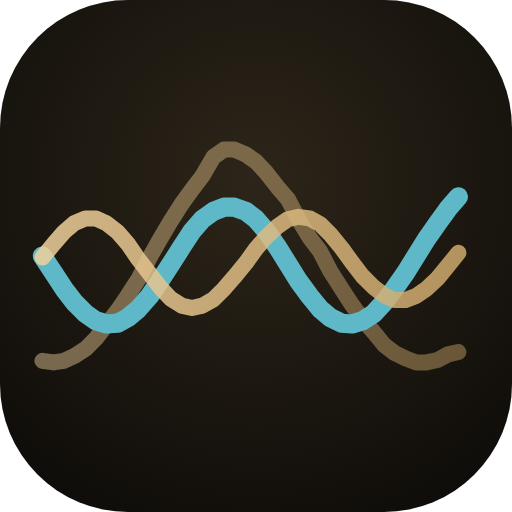
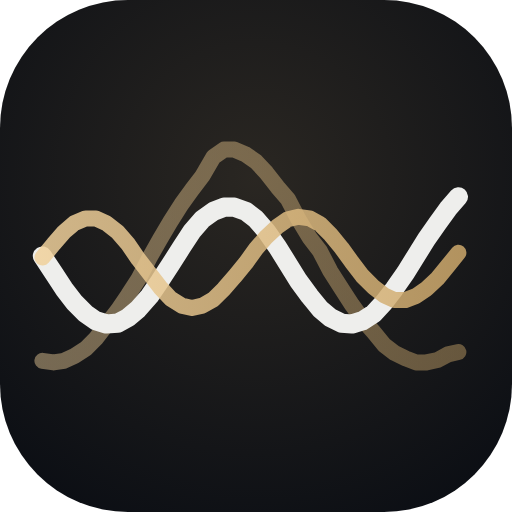
Farbpalette: Navy-Schwarz statt Braunschwarz, zweiter Akzent auf Weiss
Hintergrund von warmem Braunschwarz auf kuehleres Navy-Schwarz (angelehnt
an Referenzscreenshot) umgestellt. Zweiter Farbakzent (bisher Blau/Teal)
komplett durch Weiss ersetzt - betrifft Hintergrundlinien, EQ-Frequenzband-
Spektrogramm, Glanzeffekte, Logo-Akzentlinie, App-Icons/OG-Bild. Gold
bleibt unveraendert fuer Branding/Buttons/Logo. Konfetti-Gruenton entfernt,
jetzt nur noch Gold-Toene - keine Braun-/Gruentoene mehr im Interface.

Changed region(s): [[0.3125, 0.3438, 0.9375, 0.6562], [0.0625, 0.4688, 0.3125, 0.6562]]

diff --git a/website/app.js b/website/app.js
@@ -1500,7 +1500,7 @@ function renderAchievements(container, achievements) {
 
 function fireConfetti(container) {
   if (!container) return;
-  const colors = ["#cda86b", "#e8caa0", "#4cc38a", "#f3efe6"];
+  const colors = ["#cda86b", "#f0d19c", "#8a6a35", "#f3efe6"];
   for (let i = 0; i < 26; i++) {
     const piece = document.createElement("div");
     piece.className = "confetti-piece";
@@ -2827,7 +2827,7 @@ let eqSeeking = false;
 let eqPendingSeekOffset = 0;
 const EQ_BAND_MIN_HZ = 20;
 const EQ_BAND_MAX_HZ = 16000;
-const EQ_BAND_BG = "#08090b";
+const EQ_BAND_BG = "#07080c";
 
 function ensureEqAudioCtx() {
   const Ctx = window.AudioContext || window.webkitAudioContext;
@@ -2959,7 +2959,7 @@ function clearEqBandCanvas() {
 // Schiebt den bisherigen Inhalt nach links und zeichnet rechts eine neue Spalte mit der
 // aktuellen Frequenzverteilung (logarithmisch ueber 20Hz-16kHz, wie bei einem Spektrogramm/EQ
 // ueblich - der Bassbereich bekommt dadurch mehr sichtbaren Platz als bei linearer Verteilung).
-// Lautere Frequenzen leuchten heller/metallischer blau, leise bleiben dunkel.
+// Lautere Frequenzen leuchten heller/weisser, leise bleiben dunkel.
 function scrollEqBandCanvas(analyser, sampleRate) {
   const ctx = eqBandCanvasCtx;
   if (!ctx) return;
@@ -2986,10 +2986,10 @@ function scrollEqBandCanvas(analyser, sampleRate) {
     const hz = Math.exp(logMin + t * (logMax - logMin));
     const bin = Math.min(bufferLength - 1, Math.max(0, Math.round(hz / binHz)));
     const magnitude = eqSpectrumDataArray[bin] / 255;
-    // Dunkler Hintergrund -> helles Metallic-Blau, je lauter der Pegel in dem Frequenzbereich
-    const r = Math.round(8 + magnitude * (169 - 8));
-    const g = Math.round(9 + magnitude * (212 - 9));
-    const b = Math.round(11 + magnitude * (238 - 11));
+    // Dunkler Hintergrund -> helles Weiss, je lauter der Pegel in dem Frequenzbereich
+    const r = Math.round(8 + magnitude * (238 - 8));
+    const g = Math.round(9 + magnitude * (238 - 9));
+    const b = Math.round(11 + magnitude * (236 - 11));
     ctx.fillStyle = `rgb(${r},${g},${b})`;
     ctx.fillRect(w - shiftPx, y, shiftPx, 1);
   }
@@ -3893,12 +3893,12 @@ if (albumBtn) {
   window.addEventListener("resize", resize);
 
   const waves = [
-    { amp: 30, freq: 0.0016, speed: 0.35, phase: 0, yRatio: 0.14, color: "91,143,184", widthPx: 1.6, alpha: 0.55 },
-    { amp: 18, freq: 0.0024, speed: 0.5, phase: 2.1, yRatio: 0.24, color: "95,184,199", widthPx: 1.4, alpha: 0.42 },
-    { amp: 38, freq: 0.0011, speed: -0.28, phase: 4.2, yRatio: 0.42, color: "91,143,184", widthPx: 1.3, alpha: 0.3 },
-    { amp: 16, freq: 0.0028, speed: 0.6, phase: 1.3, yRatio: 0.66, color: "95,184,199", widthPx: 1.2, alpha: 0.24 },
-    { amp: 24, freq: 0.0018, speed: -0.4, phase: 5.5, yRatio: 0.86, color: "91,143,184", widthPx: 1.2, alpha: 0.2 },
-    { amp: 20, freq: 0.0021, speed: 0.45, phase: 3.3, yRatio: 1.05, color: "95,184,199", widthPx: 1.1, alpha: 0.16 },
+    { amp: 30, freq: 0.0016, speed: 0.35, phase: 0, yRatio: 0.14, color: "255,255,255", widthPx: 1.6, alpha: 0.4 },
+    { amp: 18, freq: 0.0024, speed: 0.5, phase: 2.1, yRatio: 0.24, color: "255,255,255", widthPx: 1.4, alpha: 0.3 },
+    { amp: 38, freq: 0.0011, speed: -0.28, phase: 4.2, yRatio: 0.42, color: "255,255,255", widthPx: 1.3, alpha: 0.22 },
+    { amp: 16, freq: 0.0028, speed: 0.6, phase: 1.3, yRatio: 0.66, color: "255,255,255", widthPx: 1.2, alpha: 0.18 },
+    { amp: 24, freq: 0.0018, speed: -0.4, phase: 5.5, yRatio: 0.86, color: "255,255,255", widthPx: 1.2, alpha: 0.15 },
+    { amp: 20, freq: 0.0021, speed: 0.45, phase: 3.3, yRatio: 1.05, color: "255,255,255", widthPx: 1.1, alpha: 0.12 },
   ];
 
   let t = 0;

diff --git a/website/style.css b/website/style.css
@@ -1,20 +1,20 @@
 :root {
   color-scheme: dark;
-  --bg-deep:        #060506;
-  --bg-plane:       #0a090c;
-  --surface-1:      #141017;
-  --surface-2:      #19141e;
+  --bg-deep:        #07080c;
+  --bg-plane:       #0b0e14;
+  --surface-1:      #10131b;
+  --surface-2:      #151a24;
   --text-primary:   #f5f0e6;
   --text-secondary: #b7b2a6;
   --text-muted:     #7d7869;
-  --gridline:       #2a2530;
+  --gridline:       rgba(255, 255, 255, 0.1);
   --border:         rgba(243, 239, 230, 0.07);
   --gold:           #cda86b;
   --gold-bright:    #f0d19c;
   --gold-deep:      #8a6a35;
   --gold-wash:      rgba(205, 168, 107, 0.16);
-  --accent-2:       #5fb8c7;
-  --accent-2-bright:#8fd6e2;
+  --accent-2:       #eeeeec;
+  --accent-2-bright:#ffffff;
   --status-good:      #4cc38a;
   --status-warning:   #dc9a3f;
   --status-critical:  #d64545;
@@ -28,8 +28,8 @@ body {
   margin: 0;
   font-family: var(--font-body);
   background:
-    radial-gradient(circle at 50% -8%, rgba(169, 212, 238, 0.13), transparent 55%),
-    radial-gradient(circle at 100% 100%, rgba(47, 88, 117, 0.09), transparent 60%),
+    radial-gradient(circle at 50% -8%, rgba(205, 168, 107, 0.11), transparent 55%),
+    radial-gradient(circle at 100% 100%, rgba(255, 255, 255, 0.05), transparent 60%),
     var(--bg-deep);
   color: var(--text-primary);
 }
@@ -84,9 +84,9 @@ body {
   background: linear-gradient(
     100deg,
     transparent 0%,
-    rgba(169, 212, 238, 0) 35%,
-    rgba(169, 212, 238, 0.32) 50%,
-    rgba(95, 184, 199, 0.22) 62%,
+    rgba(255, 255, 255, 0) 35%,
+    rgba(255, 255, 255, 0.3) 50%,
+    rgba(240, 209, 156, 0.2) 62%,
     transparent 100%
   );
   transform: skewX(-15deg);
@@ -118,7 +118,7 @@ body {
     120deg,
     transparent 0%,
     rgba(255, 255, 255, 0) 30%,
-    rgba(169, 212, 238, 0.5) 50%,
+    rgba(255, 255, 255, 0.5) 50%,
     rgba(255, 255, 255, 0) 70%,
     transparent 100%
   );
@@ -137,8 +137,8 @@ body {
   50% {
     box-shadow:
       0 24px 48px -26px rgba(0, 0, 0, 0.75),
-      0 0 0 1.5px rgba(169, 212, 238, 0.75),
-      0 0 28px 3px rgba(169, 212, 238, 0.4);
+      0 0 0 1.5px rgba(255, 255, 255, 0.7),
+      0 0 28px 3px rgba(255, 255, 255, 0.35);
   }
 }
 

diff --git a/website/sw.js b/website/sw.js
@@ -3,7 +3,7 @@
 // aktuellste Version - wichtig, weil sich Code hier haeufig aendert. Der Cache dient nur als
 // Fallback, wenn wirklich kein Netz da ist. Alles ausserhalb der Shell (API-Calls an den Worker,
 // Stripe, das Whisper-Modell vom CDN) wird gar nicht erst abgefangen.
-const CACHE_NAME = "overhertz-v1";
+const CACHE_NAME = "overhertz-v2";
 const APP_SHELL = ["/", "/index.html", "/style.css", "/app.js", "/logo.svg", "/manifest.json"];
 
 self.addEventListener("install", (event) => {

diff --git a/website/index.html b/website/index.html
@@ -24,7 +24,7 @@
   <link rel="icon" href="logo.svg" type="image/svg+xml" />
   <link rel="apple-touch-icon" href="apple-touch-icon.png" />
   <link rel="manifest" href="manifest.json" />
-  <meta name="theme-color" content="#060506" />
+  <meta name="theme-color" content="#07080c" />
   <meta name="mobile-web-app-capable" content="yes" />
   <meta name="apple-mobile-web-app-capable" content="yes" />
   <meta name="apple-mobile-web-app-status-bar-style" content="black-translucent" />

diff --git a/OFFENE-PUNKTE.md b/OFFENE-PUNKTE.md
@@ -4,6 +4,17 @@ Stand: 2026-08-05. Code für alle Features unten ist geschrieben, committed
 und im Browser client-seitig getestet (Playwright, siehe Testprotokoll
 unten).
 
+## ✅ NEU (05.08., fünfter Durchgang): Finale Farbpalette
+Nach Rückmeldung, dass der bisherige Blau-/Braunton auf Dauer nicht "elegant
+Plattenlabel" genug wirkt: Hintergrund von warmem Braunschwarz auf ein
+kühleres Navy-Schwarz umgestellt (angelehnt an einen Referenzscreenshot),
+zweiter Farbakzent (bisher Blau/Teal) komplett durch Weiß ersetzt – Gold
+bleibt wie immer für Branding/Buttons/Logo. Betrifft Hintergrundlinien,
+Frequenzband-Spektrogramm im EQ-Editor, Glanzeffekte, Logo-Akzentlinie,
+App-Icons/OG-Bild. Auch das Konfetti beim Top-Ergebnis hatte einen
+Grünton drin – rausgenommen, jetzt nur noch Gold-Töne. Keine Braun-/
+Grüntöne mehr irgendwo im Interface (Rot-Grün-Sehschwäche).
+
 ## ✅ NEU (05.08., vierter Durchgang): Album-Check-Akkordeon, EQ-Reihenfolge, Kleinkram
 - **Album-Check: volle Tiefenanalyse pro Track.** Jeder Track im
   Album-Check hat jetzt einen "Details & Verbessern"-Button – klappt
